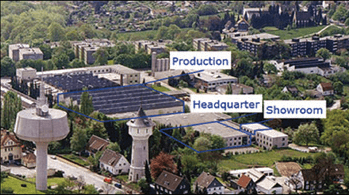
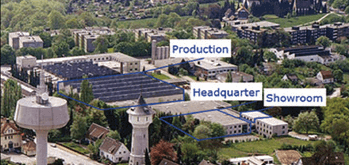
click_go-to-finish and worlflow

diff --git a/Image Access Site/css/opus-freeflow.css b/Image Access Site/css/opus-freeflow.css
@@ -45,7 +45,7 @@
 .infoblock .infoblock__opus-freeflow-content-stabilization-left-block {
     float: left;
     width: 45%;
-    margin-top: -4%;
+    margin-top: -6%;
 }
 
 .infoblock .brochure-title-center {
@@ -108,12 +108,14 @@
 
 .infoblock .infoblock_book_2 {
     width: 70%;
+    float: right;
 }
 
 .infoblock .infoblock_banner {
     width: 48%;
     margin-top: -1%;
     float: right;
+    clear: both;
 }
 
 .infoblock .infoblock_do_before_1 {
@@ -244,7 +246,7 @@
 .infoblock .content_stabilization4 {
     width: 45%;
     float: right;
-    margin-top: -6%;
+    margin-top: -4%;
 }
 
 .infoblock .content_stabilization5 {
@@ -300,14 +302,14 @@
     color: black;
     font-size: 3.6rem;
     line-height: 3.8rem;
-    margin-left: 17%;
+    margin-left: 24%;
 }
 
 .versus4 {
     color: black;
     font-size: 3.6rem;
     line-height: 3.8rem;
-    margin-left: 59%;
+    margin-left: 53%;
     margin-top: -4%;
 }
 
@@ -556,6 +558,7 @@
 
     .infoblock .opus_output_absolute_text {
         margin-top: -27%;
+        font-size: 1.2rem;
     }
 
     .infoblock .infoblock__opus-freeflow-content-stabilization-left-block {
@@ -564,9 +567,9 @@
     }
 
     .infoblock .little_label_for_image_metadata {
-        font-size: 1.2rem;
-        line-height: 1.4rem;
-        margin-top: -9%;
+        font-size: 1rem;
+        line-height: 1.2rem;
+        margin-top: -14%;
         float: left;
     }
 
@@ -579,7 +582,7 @@
     .infoblock .table1_freeflow {
         width: 75%;
         float: right;
-        padding-top: 5%;
+        padding-top: 3%;
     }
 
     .infoblock .infoblock__opus-freeflow-features-diagram {
@@ -615,7 +618,7 @@
         font-size: 3.2rem;
         line-height: 3.4rem;
         margin-left: 55%;
-        margin-top: -3%;
+        margin-top: -5.5%;
     }
 
     .infoblock .block_hierarchical_metadata_table {
@@ -654,7 +657,7 @@
         color: black;
         font-size: 2.4rem;
         line-height: 2.6rem;
-        margin-left: 13%;
+        margin-left: 23%;
     }
 
     .infoblock .infoblock__opus-freeflow-features-label {
@@ -683,8 +686,8 @@
         color: rgb(0, 0, 0);
         font-size: 2.4rem;
         line-height: 2.6rem;
-        margin-left: 55%;
-        margin-top: -4%;
+        margin-left: 52%;
+        margin-top: -4.5%;
     }
 
     .infoblock .opus_output_absolute_text {

diff --git a/Image Access Site/pages/Footer_About_Image_Access.html b/Image Access Site/pages/Footer_About_Image_Access.html
@@ -26,7 +26,7 @@
         <div class="country-wrapper">
             <div class="country">
                 <p class="country__text">Library Conventions</p>
-                <img src="../images/news_and_events/ACRL-Philadelphia.JPG" alt="library">
+                <img src="../images/brochure-pictures/ACRL-Philadelphia.png" alt="library">
             </div>
             <div class="country">
                 <p class="country__text">United States</p>
@@ -45,10 +45,10 @@
                 barcode reading and image treatment algorithms and a powerful workflow system, Image Access
                 is well-equipped to meet both general and specialized digitization needs.</p>
             <p class="history__w2">Image Access has a long history of leadership in digital technology. Image Access created Scan2Net®,
-                the first Ethernet/HTML based scanner interface, the ﬁrst self-serve book scanner kiosk, the first and
+                the first Ethernet/HTML based scanner interface, the first self-serve book scanner kiosk, the first and
                 only ILL scan, clean-up and delivery workflow system, the first affordable preservation quality large
-                format planetary scanner, the first affordable duplex newspaper scanner, the ﬁrst and only book scanner
-                with both ﬂat and v-modes, the ﬁrst and only complete digitization workﬂow system, and more. We also
+                format planetary scanner, the first affordable duplex newspaper scanner, the first and only book scanner
+                with both ﬂat and v-modes, the first and only complete digitization workﬂow system, and more. We also
                 have the most extensive and prestigious customer list for book scanners in the United States and many
                 countries abroad.</p>
             <p class="history__w2">Image Access created the Digital Library Systems Group (DLSG) in 2004 to focus on the special needs

diff --git a/Image Access Site/css/opus-digization-workflow-software.css b/Image Access Site/css/opus-digization-workflow-software.css
@@ -18,7 +18,6 @@
     display: block;
 }
 
-
 .infoblock .brochure-title-left {
     color: #000;
     font-size: 3.6rem;
@@ -230,8 +229,8 @@ h5 {
 
 .infoblock__highlights-wrapper ul {
     float: left;
-    width: 47%;
-    margin-left: 3%;
+    width: 49%;
+    padding-left: 3%;
 }
 
 .infoblock__highlights-wrapper li {
@@ -478,7 +477,7 @@ div .derivatives-pictures__bottom-paragraph {
     }
 
     div .derivatives-pictures__bottom-paragraph {
-        margin-top: -218px;
+        margin-top: -195px;
     }
 
     .infoblock__book-stack-and-feature-enumeration img {
@@ -495,6 +494,10 @@ div .derivatives-pictures__bottom-paragraph {
     .infoblock__hierarchical-metadata_paragraph-with-image p {
         width: 35%;
         padding-top: 0;
+    }
+
+    .infoblock__highlights-wrapper ul {
+        padding-left: 4%;
     }
 
     .white-rectangulars__articles p {

diff --git a/Image Access Site/css/opus-workflow.css b/Image Access Site/css/opus-workflow.css
@@ -44,8 +44,16 @@
     padding: 20px 0 10px;
 }
 
+.infoblock .brochure-title-special {
+    color: #000;
+    font-size: 3.6rem;
+    line-height: 3.8rem;
+    text-align: center;
+    padding-top: 20px;
+}
+
 .blue-bullet li {
-   line-height: 2.4rem;
+    line-height: 2.4rem;
 }
 
 /*First page*/
@@ -237,8 +245,8 @@ h5 {
 
 .infoblock__highlights-wrapper ul {
     float: left;
-    width: 47%;
-    margin-left: 3%;
+    width: 49%;
+    padding-left-left: 3%;
 }
 
 .infoblock__highlights-wrapper li {
@@ -456,6 +464,10 @@ div .derivatives-pictures__bottom-paragraph {
 
     .content_stabilization4 {
         margin-top: 37px;
+    }
+
+    .infoblock__highlights-wrapper ul {
+        padding-left: 4%;
     }
 
     .infoblock .little_label_for_image_metadata {

diff --git a/Image Access Site/pages/KIC_OFFS_Opus_FreeFlow_Software.html b/Image Access Site/pages/KIC_OFFS_Opus_FreeFlow_Software.html
@@ -213,7 +213,7 @@
                     other types.
                 </li>
                 <li><h3 class="h3_class_tittle">State-of-the-Art Customizable Output Derivatives and Formats</h3>Opus'
-                    Create Collection stage provides output thatcan be imported into open source and proprietary content
+                    Create Collection stage provides output that can be imported into open source and proprietary content
                     management and digital library systems. Storage and internet bandwidth requirements rise as image
                     quality rises. Opus lets the user select the ideal compromise for each access system that
                     collections

diff --git a/Image Access Site/pages/Opus_WorkFlow.html b/Image Access Site/pages/Opus_WorkFlow.html
@@ -100,7 +100,7 @@
         </div>
         <div id="Opus_WorkFlow_Turnkey_System" class="scrollSpy infoblock__block-hidden">
             <div class="infoblock__title">
-                <h2 class="brochure-title-center">Opus Digitization Workflow System</h2>
+                <h2 class="brochure-title-special">Opus Digitization Workflow System</h2>
                 <span class="title__subtitle">A Complete Turnkey System that's Built for Non-Technologists</span>
             </div>
             <div class="infoblock__white-rectangulars">

diff --git a/Image Access Site/css/kic-offs-opus-freeflow-software.css b/Image Access Site/css/kic-offs-opus-freeflow-software.css
@@ -220,12 +220,14 @@ h5 {
 
 .infoblock .infoblock_book_2 {
     width: 70%;
+    float: right;
 }
 
 .infoblock .infoblock_banner {
     width: 48%;
     margin-top: -1%;
     float: right;
+    clear: both;
 }
 
 .hierarchical {
